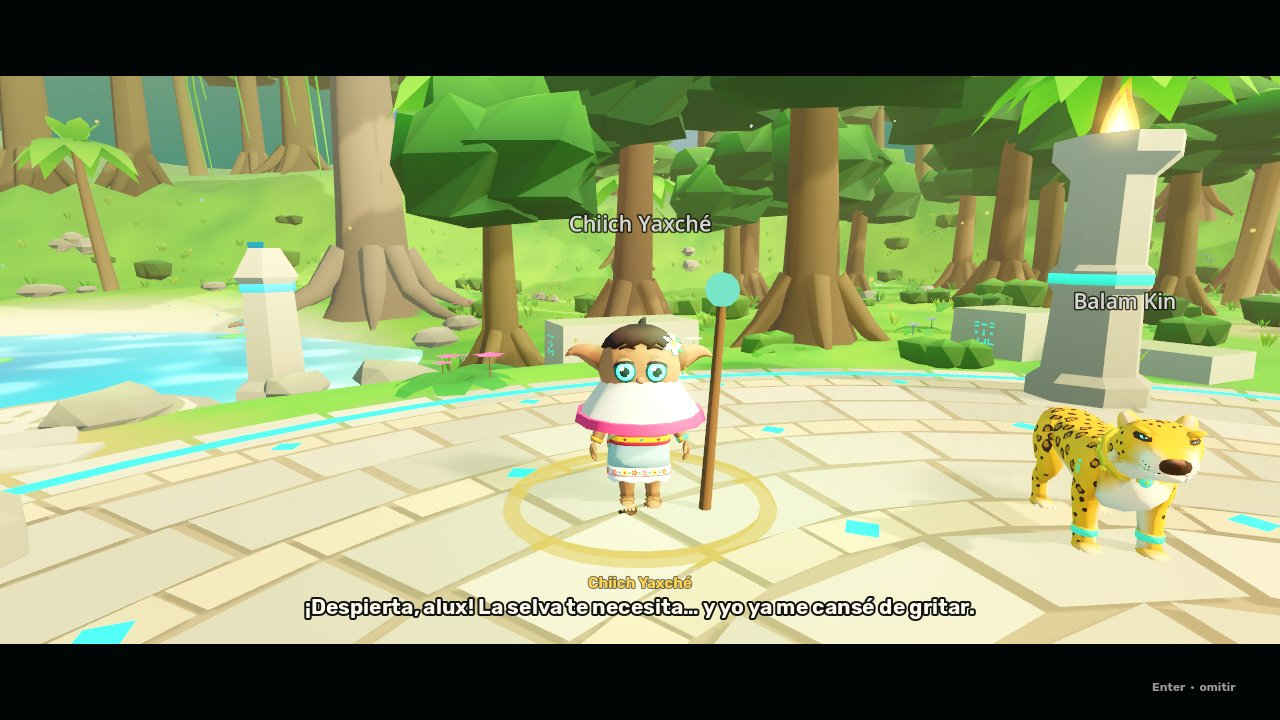
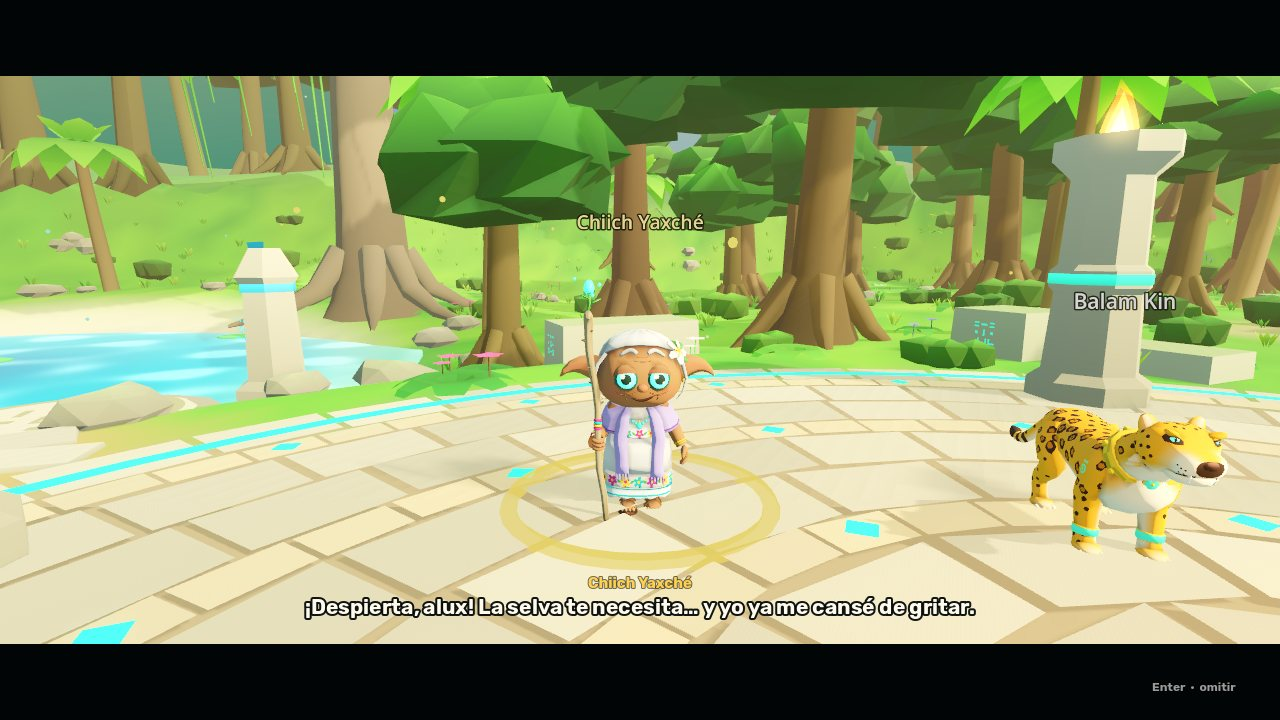
Documentación: Alpha 0.2, incremento 2, con resultados de pruebas y costo medido de Kling
Claude-Session: https://claude.ai/code/session_01L9SqVoHULtq9hWDWFQFpkp

diff --git a/docs/CINEMATICS.md b/docs/CINEMATICS.md
@@ -9,7 +9,7 @@ punto de hacer, y siempre devuelven el control en el mismo sitio.
 | Clase | Qué es | Quién la controla | Para qué | Estado |
 | --- | --- | --- | --- | --- |
 | **Local dentro del motor** | La cámara del juego recorre el escenario real, con subtítulos. | Cada jugador en su pantalla. No detiene a nadie más. | Introducciones al entrar, recordatorios, repetir una escena desde el menú. | **Hecho** |
-| **Compartida dentro del motor** | Igual, pero todos la ven a la vez. | El servidor la empieza y la termina. | Momentos que cambian la partida: llega el jefe, se abre un camino. | Diseñada (0.2, incremento 2) |
+| **Compartida dentro del motor** | Igual, pero todos la ven a la vez. | El servidor la empieza y la termina. | Momentos que cambian la partida: llega el jefe, se abre un camino. | **Hecho** |
 | **Vídeo prerenderizado** | Un vídeo hecho con Kling, con subtítulos del juego encima. | Local o compartida, según el momento. | Lo que el navegador no puede dibujar: vínculos con los espíritus, finales de capítulo. | Diseñado (0.4) |
 
 ## Reproductor dentro del motor (hecho)
@@ -40,15 +40,20 @@ pone texto y lanza un sonido.
 
 ## Reglas en cooperativo
 
+Implementadas y probadas con bots y en navegador. El servidor guarda la cinemática en curso, los
+segundos que le quedan y los votos; los clientes los reciben en el estado del mundo (así, quien se
+reconecta sabe que la sala está en pausa) y en dos eventos: `cine` al empezar y `cine_end` al terminar.
+
 | Regla | Local | Compartida |
 | --- | --- | --- |
 | Quién la empieza | El cliente | El servidor (evento con el tick en que empieza) |
 | ¿Detiene la partida? | No. Sólo deja quieto a quien la ve. | Sí, para todos: enemigos en pausa y jugadores sin recibir daño mientras dura. |
-| Omitir | Al instante, Enter o Esc. | Es un **voto**. Se omite cuando vota la mayoría de los conectados; un jugador solo omite al instante. En pantalla: «Omitir (2/4)». |
+| Omitir | Al instante, Enter o Esc. | Es un **voto** (Enter o Esc). Se omite cuando vota la mayoría de los conectados: 1 de 1, 2 de 2, 2 de 3, 3 de 4. En pantalla: «Enter · votar para omitir (1/3)». |
 | Quién decide que terminó | El cliente | El servidor: al acabar su duración o al cumplirse el voto. Un cliente no puede terminarla por su cuenta. |
 | Alguien entra a mitad | Ve la suya | No la ve: entra directo a la partida cuando termine. |
 | Alguien se desconecta | — | Deja de contar para el voto. |
-| Volver al juego | Cámara y controles donde estaban | Igual, y todos a la vez, con un par de segundos antes de que los enemigos reaccionen. |
+| Volver al juego | Cámara y controles donde estaban | Igual, y todos a la vez; los enemigos tardan unos 3 s en reaccionar. |
+| Cuántas veces | La introducción, una por navegador | Una por sala: al jugar otra ronda no se repite. |
 
 Nunca se usa una cinemática compartida en mitad de un combate normal: sólo en puntos seguros.
 
@@ -87,16 +92,30 @@ los modelos del juego: las hojas de `art/previews/` y capturas del propio escena
 registran como sujetos reutilizables (uno para el alux, uno para Balam) y cada plano parte de un
 primer cuadro hecho con el juego.
 
-**Cuenta de Kling:** 2 709 créditos disponibles al 12 de noviembre de 2026. La herramienta no informa
-del costo por vídeo antes de generarlo, así que **no conozco la cifra**. Con tu autorización se hará
-primero una sola toma de prueba de 5 s para medir el costo real y presupuestar el resto.
+**Costo medido (12 nov 2026).** Con tu autorización se hizo una sola toma de prueba: 5 s a 1080p con
+el modelo `kling-video-v3_0_turbo`, partiendo de un cuadro del propio juego. **Costó 50 créditos**;
+quedan 2 659.
+
+![Cuatro cuadros de la toma de prueba](img/kling-prueba-vinculo.jpg)
+
+| Qué se vio | Resultado |
+| --- | --- |
+| Fidelidad a los personajes | Balam y el alux se mantienen iguales al modelo del juego (rosetas, ajorcas, penacho, vestido). |
+| Fidelidad al lugar | La plaza, los pilares y la pirámide del juego se conservan; la cámara gira alrededor. |
+| Acción pedida | El jaguar camina hacia el alux y baja la cabeza. El alux apenas reacciona. |
+| Peso para web | El original son 9 MB (1080p). Convertido a 720p y 1.5 Mbps queda en 0.85 MB por 5 s: unos 4 MB para los 24 s. |
+
+**Presupuesto de «El vínculo de Balam»** con este modelo: 24 s son unos 240 créditos por pasada.
+Contando dos o tres tomas por plano para elegir, entre 500 y 750 créditos. Otros modelos (4.0, omni)
+pueden costar distinto: no se han medido.
 
 ## Estado de cada cinemática
 
 | Id | Título | Clase | Dónde ocurre | Estado |
 | --- | --- | --- | --- | --- |
 | `llamado` | El llamado | Local, motor | Al entrar por primera vez; se repite desde el menú | **Hecha** (4 planos, 19 s) |
-| `vinculo_balam` | El vínculo de Balam | Vídeo (Kling) + respaldo en motor | Tras hablar con Chiich Yaxché | Guion y storyboard; **sin aprobar ni producir** |
+| `sello` | El sello cede | Compartida, motor | La primera vez que el grupo abre el santuario | **Hecha** (2 planos, 7 s) |
+| `vinculo_balam` | El vínculo de Balam | Vídeo (Kling) + respaldo en motor | Tras hablar con Chiich Yaxché | **Storyboard aprobado**; una toma de prueba hecha; producción en 0.4 |
 | `guardian_despierta` | El Guardián Dormido despierta | Compartida, motor | Al entrar al patio del santuario | Planeada (0.3) |
 | `pluma_de_jade` | La Pluma de Jade | Vídeo (Kling) + respaldo en motor | Al vencer al jefe | Planeada (0.4) |
 
@@ -111,7 +130,16 @@ primero una sola toma de prueba de 5 s para medir el costo real y presupuestar e
 
 Sólo se muestra sola la primera vez en cada navegador; después se puede repetir desde el menú.
 
-## Storyboard: «El vínculo de Balam» (pendiente de tu aprobación)
+## «El sello cede» (hecha)
+
+| Plano | Duración | Cámara | Texto |
+| --- | --- | --- | --- |
+| 1 | 3.5 s | Hacia el portal del santuario, acercándose | «Cada alux en su altar, y el sello cede…» |
+| 2 | 3.5 s | Sobre el lugar de la emboscada, bajando | «…pero quienes lo cuidaban ya no recuerdan a quién. ¡Los Olvidados despiertan!» |
+
+Mientras dura, nadie se mueve, nadie ataca y nadie recibe daño.
+
+## Storyboard: «El vínculo de Balam» (aprobado el 12 nov 2026; producción en 0.4)
 
 **Qué cuenta:** por qué el alux puede volverse jaguar. Balam no es un poder: es alguien que decide
 caminar con él. **Duración:** unos 24 s en cuatro planos. **Formato:** 16:9, 1080p de origen.
@@ -139,11 +167,11 @@ En todos: *same character design as the reference images, no text, no logos, no 
 
 **Qué hace falta antes de producirla**
 
-1. Tu aprobación de este guion y de los cuatro planos.
+1. ~~Tu aprobación de este guion y de los cuatro planos.~~ Hecho.
 2. Modelos definitivos del alux y de Balam (la cabeza de Balam todavía se va a retocar): si se
    produce antes, habrá que repetirla.
 3. Las capturas de primer cuadro, de noche; hoy el juego sólo tiene iluminación de día.
-4. Autorización de créditos, tras la toma de prueba.
+4. Tu autorización de los créditos de producción (500–750 estimados). La toma de prueba ya está hecha.
 5. El reproductor de vídeo del navegador (Alpha 0.4).
 
 **Respaldo dentro del motor:** la misma escena en tres planos con los modelos del juego y el efecto

diff --git a/docs/ROADMAP.md b/docs/ROADMAP.md
@@ -11,12 +11,12 @@ Pruebas: [PLAYTEST.md](PLAYTEST.md) · Versiones: [RELEASES.md](RELEASES.md).
 | Área | Estado real |
 | --- | --- |
 | Versión publicada | **Closed Alpha 0.1** en <https://alux-beta.onrender.com> (rama `beta`, commit `12fadbe`). Rollback: [beta.md](beta.md), sección 9. |
-| Versión en desarrollo | **Alpha 0.2**, primer incremento hecho en la rama de trabajo. **No publicada.** |
+| Versión en desarrollo | **Alpha 0.2**, incrementos 1 y 2 hechos en la rama de trabajo. **No publicada**: candidata a beta cuando des el visto bueno. |
 | Multijugador | Servidor autoritativo, 4 jugadores, reconexión, salas. Verificado con bots, navegadores y contra el servicio desplegado (un jugador). **Cuatro personas reales a la vez: sin probar.** |
 | Combate y formas | Alux y Balam, dos enemigos, emboscada, derrota y otra ronda. Datos modulares (`combat_def.gd`). Equilibrio sin probar con personas. |
-| Historia | Introducción, un personaje con diálogo y primer objetivo narrativo (Alpha 0.2). Sin jefe ni cierre de capítulo. |
+| Historia | Introducción, un personaje con diálogo, primer objetivo narrativo y una escena compartida (Alpha 0.2). Sin jefe ni cierre de capítulo. |
 | Escenario | Un solo mapa, definido en un único archivo compartido (`world_def.gd`). **No hay soporte para varias zonas.** |
-| Arte | Alux y Balam modelados (Blender, por código). Enemigos y Chiich Yaxché con modelos provisionales. |
+| Arte | Alux, Balam y Chiich Yaxché modelados (Blender, por código). Enemigos con modelos provisionales. |
 | Audio | 38 sonidos generados por código. **Nadie los ha escuchado.** |
 | Rendimiento | Medido sólo con render por software. **Sin datos de tarjeta gráfica**; las métricas de cada sesión real ya se registran. |
 | Acceso y datos | Invitaciones individuales, PostgreSQL en Render, migraciones automáticas. Discord real pendiente de credenciales. |
@@ -52,7 +52,8 @@ Las fechas no se fijan: cada versión sale cuando cumple sus criterios.
 | Incremento | Contenido | Estado |
 | --- | --- | --- |
 | 1 | Reproductor de cinemáticas (locales), introducción «El llamado», Chiich Yaxché (modelo provisional) con diálogos según el momento de la historia, objetivo «Habla con Chiich Yaxché», marca en la brújula, progreso anotado por el servidor. | **Hecho y probado** |
-| 2 | Modelo propio de Chiich Yaxché (Blender); cinemáticas compartidas con voto para omitir (lo necesita el jefe); progreso del capítulo guardado en el perfil; correcciones que salgan de la primera sesión con testers (audio, equilibrio, rendimiento). | Pendiente |
+| 2 | Cinemáticas compartidas con voto de mayoría y sala en pausa, con la primera («El sello cede», al abrir el santuario); progreso del capítulo guardado en el perfil; modelo propio de Chiich Yaxché (Blender). | **Hecho y probado** (detalle en [RELEASES.md](RELEASES.md)) |
+| 3 | Correcciones que salgan de la primera sesión con testers (audio, equilibrio, rendimiento). | Pendiente: aún no ha habido sesión |
 
 **Criterios de aceptación:** un jugador nuevo ve la introducción, habla con la abuela y sabe qué
 hacer sin ayuda externa; con cuatro jugadores cada quien puede leer el diálogo a su ritmo sin detener
@@ -115,11 +116,15 @@ Historia, jefe y cierre de Los Secretos del Cenote, con la misma estructura que 
 | Varias zonas | Bloquea todo el Capítulo II | 0.5 |
 | Capacidad del servidor | 512 MB compartidos; un jefe y más salas pueden pedir el plan siguiente (US$25 al mes) | Medir en 0.3 |
 
-## Decisiones que necesitan tu aprobación
+## Decisiones tomadas
 
-| Decisión | Opciones | Recomendación |
+| Decisión | Resuelto (12 nov 2026) | Efecto |
 | --- | --- | --- |
-| ¿Balam se desbloquea jugando? | **A.** Sigue disponible desde el inicio y la historia cuenta el vínculo. **B.** Los jugadores nuevos empiezan sin Balam y lo reciben tras la escena del vínculo. | **B** a partir de 0.4, cuando exista la escena; hasta entonces, A. Quien ya lo tiene lo conserva. |
-| Nombres de los espíritus (Áayin, Tuunich, Toh) y del antagonista (El que Calla) | Aprobar, cambiar o proponer otros | Aprobar como nombres de trabajo y revisarlos con un hablante de maya. |
-| Primera cinemática con Kling | «El vínculo de Balam» (storyboard en [CINEMATICS.md](CINEMATICS.md)) | Producirla en 0.4, no antes: los modelos todavía van a cambiar. |
-| Voto para omitir cinemáticas compartidas | Unanimidad, mayoría, o que decida quien creó la sala | Mayoría de los conectados; un jugador solo omite al instante. |
+| ¿Balam se desbloquea jugando? | **Sí, a partir de la 0.4**, cuando exista la escena del vínculo. Hasta entonces sigue disponible desde el inicio; quien ya lo tiene lo conserva. | Trabajo previsto en 0.4 |
+| Nombres de los espíritus y del antagonista | **Aprobados como nombres de trabajo**: Áayin, Tuunich, Toh y El que Calla. Falta la revisión de un hablante de maya yucateco. | [STORY_BIBLE.md](STORY_BIBLE.md) |
+| Primera cinemática con Kling | **Storyboard de «El vínculo de Balam» aprobado.** Se produce en 0.4. La toma de prueba ya se hizo: 50 créditos por 5 s. | [CINEMATICS.md](CINEMATICS.md) |
+| Voto para omitir cinemáticas compartidas | **Mayoría de los conectados**; un jugador solo omite al instante. | Implementado en 0.2 |
+
+## Decisiones abiertas
+
+Ninguna bloquea el trabajo en curso. Las próximas llegarán con el diseño fino del jefe (0.3).

diff --git a/docs/RELEASES.md b/docs/RELEASES.md
@@ -6,7 +6,7 @@ Qué lleva cada versión, qué se comprobó y cuál está publicada. Plan de las
 | Versión | Estado | Contenido |
 | --- | --- | --- |
 | Closed Alpha 0.1 | **Publicada** en <https://alux-beta.onrender.com> | Claro de los Aluxes jugable de 1 a 4, combate, emboscada, victoria y derrota, audio provisional, acceso por invitación |
-| Alpha 0.2 (incremento 1) | En la rama de trabajo, **sin publicar** | Introducción «El llamado», Chiich Yaxché con diálogo, primer objetivo narrativo, reproductor de cinemáticas |
+| Alpha 0.2 (incrementos 1 y 2) | En la rama de trabajo, **sin publicar** | Introducción «El llamado», Chiich Yaxché con modelo propio y diálogo, primer objetivo narrativo, cinemáticas locales y compartidas con voto, progreso del capítulo en el perfil |
 
 ## Publicación en la rama `beta`
 
@@ -41,7 +41,36 @@ valor al estado del mundo. Un cliente de la 0.1 seguiría funcionando contra est
 ![La introducción y el diálogo en un navegador real](img/alpha02-navegador.jpg)
 
 **Sin comprobar:** con tarjeta gráfica, con personas, y contra el servicio desplegado (no está publicada).
-**Provisional:** el modelo de Chiich Yaxché.
+
+**Incremento 2.** Amplía el protocolo sin romperlo: un mensaje (`skip`), dos eventos (`cine`,
+`cine_end`) y dos valores más al final del estado del mundo. No hay migraciones nuevas.
+
+| Novedad | Detalle |
+| --- | --- |
+| Cinemáticas compartidas | Las empieza y las termina el servidor. Mientras duran, la sala está en pausa: nadie se mueve ni recibe daño y los enemigos esperan. Cada sala las ve una sola vez. |
+| «El sello cede» | La primera (2 planos, 7 s): se reproduce para todo el grupo cuando abre el santuario por primera vez, justo antes de la emboscada. |
+| Voto para omitir | Enter vota. Se omite con la mayoría de los conectados (1 de 1, 2 de 2, 2 de 3, 3 de 4); en pantalla se ve cuántos votos van. Quien se desconecta deja de contar. |
+| Progreso del capítulo | Al hablar con la abuela, el servidor guarda «El llamado de la abuela» en el perfil de quienes estén conectados (una vez por jugador) y el portal lo muestra junto a los sellos. |
+| Chiich Yaxché, modelo propio | Hecho en Blender por código, como el alux y Balam: 8 599 triángulos, 39 huesos, 542 KB. Animaciones de reposo, hablar, regañar y bendecir; el brote de jade del bastón late. Retrato propio en el diálogo. |
+| Toma de prueba de Kling | Una toma de 5 s de «El vínculo de Balam» para medir el costo: **50 créditos**. No está en el juego. Ver [CINEMATICS.md](CINEMATICS.md). |
+
+| Comprobación (en local) | Resultado |
+| --- | --- |
+| API | 10 de 10 |
+| Simulación | Sin violaciones (el mundo compartido no cambió) |
+| Servidor con bots | 13 de 13, con la prueba nueva: la escena pausa la sala, un voto de cuatro no basta, tres la terminan, y no se repite en la misma sala |
+| Flujo en navegador | Pasa completo: introducción, diálogo, escena compartida con voto, victoria, otra ronda, derrota, reintento y salida |
+| Cuatro navegadores | Pasa: movimiento, transformación, combate sincronizado, reconexión, sala llena y recarga |
+| Rendimiento (mismo método que el incremento 1) | 6.7 FPS en mínima y 4.7 en baja, frente a 7.2 y 5.0 del incremento 1: **una bajada de alrededor del 7 %**, atribuible al modelo nuevo (antes eran piezas sin esqueleto). Está cerca del margen de error de esta medición; hay que confirmarlo con tarjeta gráfica. |
+
+![Chiich Yaxché, el diálogo con su retrato y la escena compartida «El sello cede»](img/alpha02-incremento2.jpg)
+
+**Corregido en las pruebas, no en el juego:** el paso de la derrota en la prueba de flujo dependía de
+observar una fase que dura pocos segundos; con el equipo cargado se la perdía. Ahora un testigo dentro
+de la página la registra.
+
+**Sin comprobar:** con tarjeta gráfica, con personas (¿se entiende el voto?, ¿molesta la pausa?) y
+contra el servicio desplegado.
 
 ## ALUX Closed Alpha 0.1
 

diff --git a/docs/STORY_BIBLE.md b/docs/STORY_BIBLE.md
@@ -1,8 +1,8 @@
 # Biblia narrativa de ALUX
 
 Universo, personajes, historia y reglas para escribir dentro de él. Es la referencia para diálogos,
-cinemáticas y diseño de capítulos. Lo marcado como **(propuesta)** espera tu aprobación creativa;
-lo demás ya está en el juego o decidido.
+cinemáticas y diseño de capítulos. Lo marcado como **(nombre de trabajo)** está aprobado para
+trabajar y pendiente de que lo revise alguien que hable maya yucateco.
 
 ## Reglas del universo
 
@@ -46,9 +46,9 @@ decide caminar con el alux, y desde entonces el alux puede tomar su forma.
 | Capítulo | Espíritu | Forma | Qué representa | Estado |
 | --- | --- | --- | --- | --- |
 | I | **Balam**, el jaguar de la noche | Jaguar | Valor: el que camina delante | En el juego |
-| II | **Áayin**, el lagarto del agua quieta **(propuesta)** | Guardián del Cenote | Memoria: lo que el agua guarda | Planeado |
-| III | **Tuunich**, el que no se mueve **(propuesta)** | Guardián de Obsidiana | Firmeza: sostener a los demás | Planeado |
-| IV | **Toh**, el pájaro del péndulo **(propuesta)** | Ave del Viento | Ligereza: ver desde arriba | Planeado |
+| II | **Áayin**, el lagarto del agua quieta **(nombre de trabajo)** | Guardián del Cenote | Memoria: lo que el agua guarda | Planeado |
+| III | **Tuunich**, el que no se mueve **(nombre de trabajo)** | Guardián de Obsidiana | Firmeza: sostener a los demás | Planeado |
+| IV | **Toh**, el pájaro del péndulo **(nombre de trabajo)** | Ave del Viento | Ligereza: ver desde arriba | Planeado |
 | V | **Kukulkán** | Serpiente emplumada | El canto completo; sólo existe cuando los cuatro actúan juntos | Planeado |
 
 Cada vínculo tiene su escena: el espíritu aparece, pone a prueba al grupo y, si lo acepta, se vuelve
@@ -64,7 +64,7 @@ una cinemática** en lugar de bloquear la forma (ver [CINEMATICS.md](CINEMATICS.
 | **Chiich Yaxché**, la abuela del claro | La alux más vieja, hoy casi espíritu, atada a la gran ceiba. Guía del Capítulo I. | Regañona y cariñosa. Llama a los aluxes "muñecos de barro". Frases cortas, refranes, impaciencia fingida. | En el juego (modelo provisional) |
 | **Balam** | El jaguar de la noche. No habla: mira, ruge, empuja con el hocico. | — | En el juego como forma |
 | **Nojoch Tuunich**, el Guardián Dormido | Coloso de piedra que cuidaba el santuario del claro. El Silencio le hizo olvidar a quién cuidaba. Jefe del Capítulo I; al vencerlo recuerda, y se queda como aliado. | Lento, grave, pocas palabras. | Diseñado, sin implementar |
-| **El que Calla** **(propuesta)** | Antagonista. El primer guardián de piedra, que vio cómo la gente dejaba de recordar los pactos y decidió que era mejor que nadie recordara nada, tampoco el dolor. Extiende el Silencio creyendo que protege. | Sereno, nunca grita. Cree tener razón. | Planeado (se insinúa en el II, aparece en el V) |
+| **El que Calla** **(nombre de trabajo)** | Antagonista. El primer guardián de piedra, que vio cómo la gente dejaba de recordar los pactos y decidió que era mejor que nadie recordara nada, tampoco el dolor. Extiende el Silencio creyendo que protege. | Sereno, nunca grita. Cree tener razón. | Planeado (se insinúa en el II, aparece en el V) |
 
 ## La historia por capítulos
 

diff --git a/docs/pendientes.md b/docs/pendientes.md
@@ -58,15 +58,20 @@ como pendiente debe darse por hecho.
     sin sonido posicional real (sólo se atenúa por distancia) y sin música adaptativa.
   - Cinemática de introducción: aplazada hasta tener modelos definitivos (decisión del proyecto).
 - **Historia (Alpha 0.2)**
-  - Hecho: introducción dentro del motor, Chiich Yaxché con diálogo y primer objetivo narrativo.
-  - El modelo de Chiich Yaxché es provisional (el del alux con piezas añadidas).
-  - Las cinemáticas compartidas con voto para omitir están diseñadas, no implementadas.
-  - El avance de la historia vive en la sala: se pierde al cerrarla y no se guarda en el perfil.
+  - Hecho: introducción dentro del motor, Chiich Yaxché con modelo propio y diálogo, primer objetivo
+    narrativo, cinemáticas compartidas con voto de mayoría («El sello cede») y progreso del capítulo
+    guardado en el perfil.
+  - Sin probar con personas: si el voto para omitir se entiende y si la pausa de la sala molesta.
+  - El perfil guarda que se escuchó el llamado, pero una sala nueva empieza la historia desde el
+    principio: todavía no se salta lo ya visto por todo el grupo.
+  - El rebozo de la abuela es rígido: en los gestos amplios se nota.
   - Los planos de cinemática sólo mueven la cámara, ponen texto y lanzan un sonido; todavía no
     animan personajes ni tienen fundidos.
   - Los diálogos son lineales, sin voces, y sólo en español.
-  - Nombres de espíritus y antagonista: propuestos, sin aprobar ni revisar con un hablante de maya.
-  - Ningún vídeo de Kling producido; el storyboard de «El vínculo de Balam» espera aprobación.
+  - Nombres de espíritus y antagonista: aprobados como nombres de trabajo; falta la revisión de un
+    hablante de maya yucateco.
+  - Kling: storyboard de «El vínculo de Balam» aprobado y una toma de prueba hecha (50 créditos por
+    5 s). La producción (0.4) necesita autorización de créditos: unos 500–750 con repeticiones.
 - **Partida**
   - Hecho: ciclo completo (bienvenida, altares, emboscada, victoria o derrota, otra ronda, salir),
     menú con ajustes y avisos de conexión. Detalle en [PLAYTEST.md](PLAYTEST.md).

diff --git a/docs/rendimiento.md b/docs/rendimiento.md
@@ -33,6 +33,7 @@ final imprime los FPS de cada uno. `npm run shots -w @alux/tests` hace lo mismo 
 | Navegador **sin GPU** (render por software, entorno de pruebas), un jugador a 640×360 | 1.5 FPS en calidad alta, 5.3 en baja y 8.4 en mínima (ver la comparación de abajo). No es representativo de un jugador real. |
 | Imagen única de la beta (portal + API + servidor de juego + proxy), contenedor limitado a 512 MB | 200–260 MB recién arrancada; ~300 MB con cuatro navegadores en una sala. Descarga del cliente: 7.8 MB comprimidos (el `.wasm` de 36 MB va en Brotli). Medido en local, no en Render. |
 | Alpha 0.2, incremento 1 (introducción, personaje y diálogo), mismo método | Sin diferencia medible en cuadros por segundo frente a la versión anterior medida el mismo día (7.2 en mínima, 5.0 en baja); unas 25–30 llamadas de dibujo más. Una luz propia para el personaje se descartó: en el navegador cada luz extra obliga a redibujar lo que alcanza. |
+| Alpha 0.2, incremento 2 (modelo propio de Chiich Yaxché, cinemática compartida), mismo método | 6.7 en mínima y 4.7 en baja: alrededor de un 7 % menos que el incremento 1, por pasar de piezas sueltas a un modelo con esqueleto (8 599 triángulos, 39 huesos). Cerca del margen de error; por confirmar con GPU. |
 | Navegador **con GPU** | **Pendiente.** No había GPU disponible en el entorno donde se desarrolló. |
 | Latencia real por Internet | **Pendiente.** Sólo se ha probado en la misma máquina (ping < 5 ms). |
 

diff --git a/docs/GAME_DESIGN.md b/docs/GAME_DESIGN.md
@@ -92,7 +92,7 @@ Los personajes no tienen colisión y su posición y alcance están en `shared/st
 | Formas vinculadas | Perfil del jugador (`unlocks`) | En el juego (Alux y Balam de inicio) |
 | Sello del Claro | Perfil (`rewards_ledger`), una vez por jugador | En el juego |
 | Plumas de Kukulkán | Perfil; una por capítulo | Planeado (0.4): el sello pasa a ser la Pluma de Jade |
-| Avance del capítulo | Hoy sólo en la sala (se pierde al cerrarla) | Guardarlo en el perfil: 0.2, incremento 2 |
+| Avance del capítulo | Perfil (`rewards_ledger`): «El llamado de la abuela» al hablar con ella | En el juego (0.2). La sala nueva aún empieza la historia desde el principio |
 
 ## Controles
 
@@ -104,7 +104,7 @@ Los personajes no tienen colisión y su posición y alcance están en `shared/st
 | **Tocar y hablar** | F (junto a un personaje, F siempre es hablar) |
 | Formas | 1 Alux · 2 Balam |
 | Diálogo | Enter, F o clic avanza · Esc cierra |
-| Cinemática | Enter o Esc la omite |
+| Cinemática | Propia: Enter o Esc la omite · Compartida: Enter vota, se omite por mayoría |
 | Menú · ayuda | Esc o P · H |
 
 Sin mando ni pantalla táctil por ahora.

diff --git a/docs/PLAYTEST.md b/docs/PLAYTEST.md
@@ -94,6 +94,7 @@ Los dos enemigos: el **guardián de piedra** (lento, golpea en área, resiste la
 | --- | --- | --- | --- |
 | 12 nov 2026 | Closed Alpha 0.1 (publicada) | Automático contra el servicio real: HTTPS, WSS, invitación, guardado, partida, reconexión, métricas; sesión de un jugador en navegador | Pasa. Detalle en [RELEASES.md](RELEASES.md) |
 | 12 nov 2026 | Alpha 0.2, incremento 1 (sin publicar) | Automático en local: API, simulación, 12 pruebas de servidor (incluida la historia), flujo en navegador con introducción y diálogo, cuatro navegadores | Ver [RELEASES.md](RELEASES.md) |
+| 12 nov 2026 | Alpha 0.2, incremento 2 (sin publicar) | Automático en local: API, simulación, 13 pruebas de servidor (incluida la cinemática compartida y su voto), flujo completo en navegador, cuatro navegadores, medición de rendimiento | Ver [RELEASES.md](RELEASES.md) |
 | — | Closed Alpha 0.1 | **Primera sesión con testers reales** (cuatro a la vez, Edge, audio a oído, FPS con tarjeta gráfica) | **Pendiente** |
 
 Cuando haya una sesión real, se anota aquí: quiénes, cuánto duró, qué entendieron sin ayuda, qué no,

diff --git a/docs/ART_BIBLE.md b/docs/ART_BIBLE.md
@@ -112,7 +112,7 @@ El magenta se reserva para el Silencio en todos los capítulos: si algo es magen
 
 | Personaje | Aspecto | Estado |
 | --- | --- | --- |
-| **Chiich Yaxché** | Alux anciana, algo más grande que los jugadores; rebozo blanco con cenefa bordada, flor en el pelo, bastón de ceiba con un brote de jade encendido; halo dorado en el suelo. | **Provisional**: reutiliza el modelo del alux con piezas añadidas. Modelo propio en 0.2, incremento 2. |
+| **Chiich Yaxché** | Alux anciana, algo más grande que los jugadores; rebozo blanco con cenefa bordada, flor en el pelo, bastón de ceiba con un brote de jade encendido; halo dorado en el suelo. | **Modelo propio** (`art/blender/build_yaxche.py`): 8 599 triángulos, 39 huesos, con reposo, hablar, regañar y bendecir. Sin revisar en movimiento con GPU. |
 | **Nojoch Tuunich** | Coloso de caliza tallada, tres veces la altura de un alux, con glifos en el pecho que se encienden; musgo y raíces; vetas magenta mientras está olvidado. | Sin modelar (0.3) |
 | Espíritus de los capítulos II–IV | Por definir cuando se aprueben | Sin diseñar |
 
